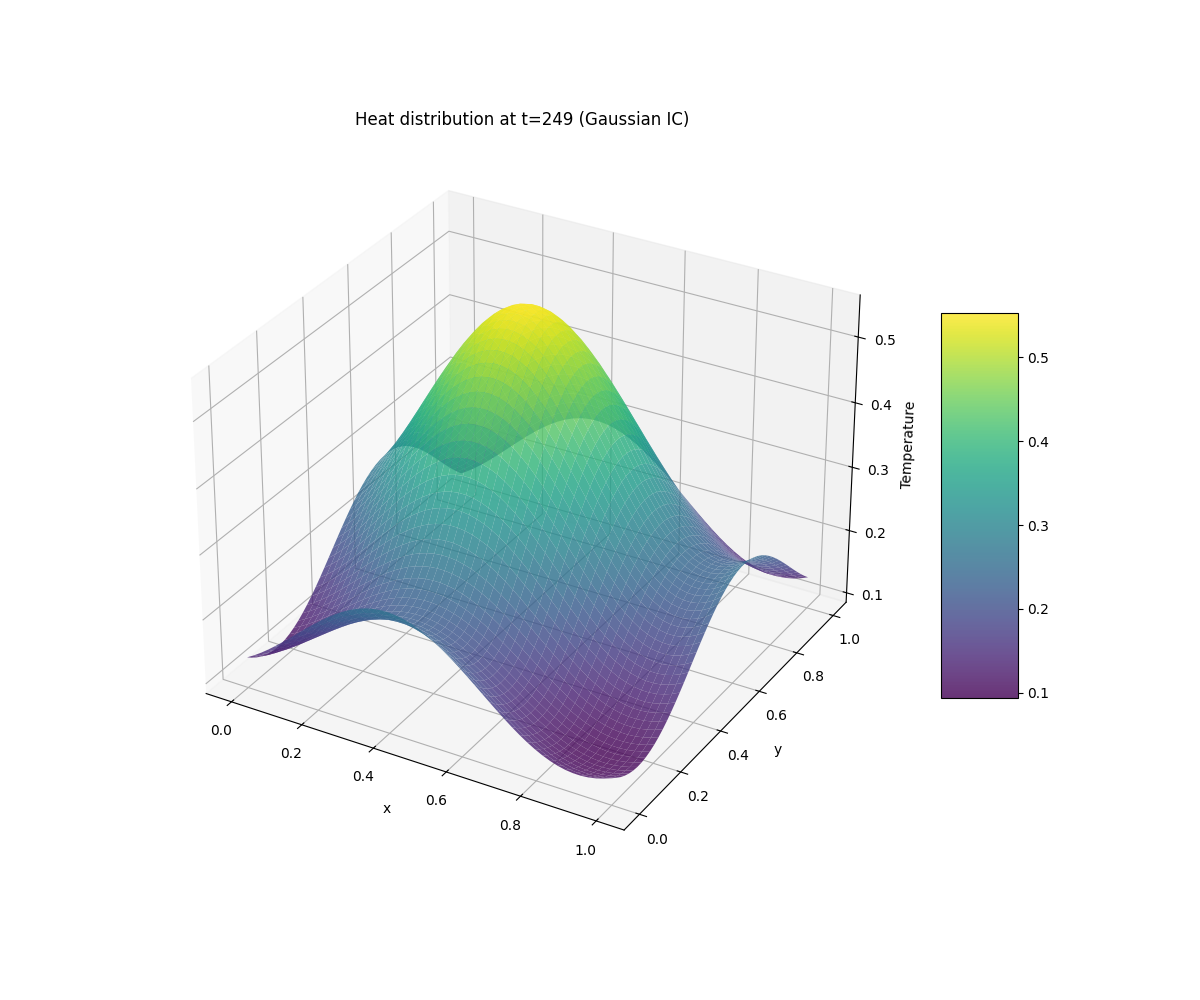
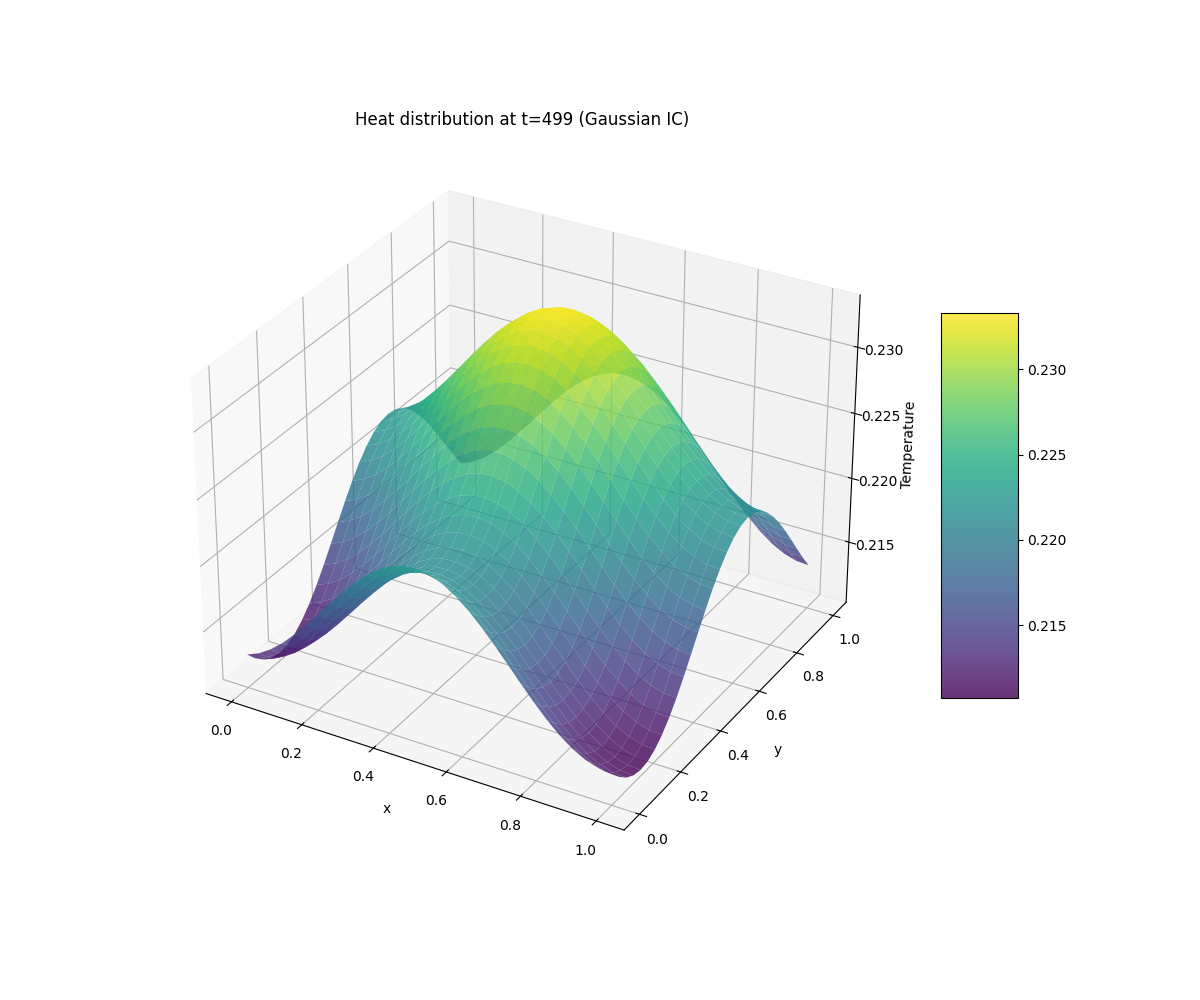
my fno is so great i love math

diff --git a/model/fno/fno.py b/model/fno/fno.py
@@ -6,7 +6,7 @@ import logging # janis sauce to debug
 import os
 import dotenv
 import json
-
+from sklearn.model_selection import train_test_split
 
 dotenv.load_dotenv()
 
@@ -23,7 +23,7 @@ import numpy as np
 
 class LinearLayer(tf.keras.layers.Layer):
     # [batch, p_1, p_1, n_coords] -> [batch, p_1, p_1, n_modes]
-    def __init__(self,n_modes:int,initializer:str='normal',device:str='GPU',p_1:int=50): # attention ici
+    def __init__(self,n_modes:int,initializer:str='normal',device:str='GPU',p_1:int=30): # attention ici
         super().__init__()
         self.n_modes = n_modes
         self.initializer = initializer
@@ -43,7 +43,7 @@ class LinearLayer(tf.keras.layers.Layer):
         
 
 class FourierLayer(tf.keras.layers.Layer): # just a simple fourier layer with pointwise multiplication with a linear thing in parallel
-    def __init__(self, n_modes: int, dim_coords: int, activation: str = "relu", kernel_initializer: str = "he_normal", device:str='GPU', linear_initializer:str='normal',p_1:int=20):
+    def __init__(self, n_modes: int, dim_coords: int, activation: str = "relu", kernel_initializer: str = "he_normal", device:str='GPU', linear_initializer:str='normal',p_1:int=30):
         super().__init__()
         self.n_modes = n_modes
         self.activation = tf.keras.activations.get(activation)
@@ -74,40 +74,41 @@ class FourierLayer(tf.keras.layers.Layer): # just a simple fourier layer with po
         
     def call(self, inputs: tf.Tensor) -> tf.Tensor:
         # inputs est de taille [batch, p_2,p_2,1] - représente les valeurs de la fonction
-        print("inputs shape",inputs.shape)
+        # print("inputs shape",inputs.shape)
         with tf.device(self.device):
             casted_data = tf.cast(inputs, tf.complex64) # to real, [batch, p_2,p_2,1]
             function_fft = tf.signal.fft2d(casted_data) # [batch, p_2,p_2, n_modes]
             
-            print("function_fft shape",function_fft.shape)
+            # print("function_fft shape",function_fft.shape)
             # keep in mind fourier_weights is a tensor of shape [n_modes,dim_coords]
 
             fourier_casted = tf.cast(self.fourier_weights,tf.complex64)
             
-            print("fourier_weights shape",fourier_casted.shape)
+            # print("fourier_weights shape",fourier_casted.shape)
             try:
                 function_fft = function_fft * fourier_casted  # with broadcasting
             except:
-                print("function_fft shape",function_fft.shape)
-                print("fourier_casted shape",fourier_casted.shape)
+                # print("function_fft shape",function_fft.shape)
+                # print("fourier_casted shape",fourier_casted.shape)
                 raise ValueError("Shape mismatch")
             
             x_spatial = tf.signal.ifft2d(function_fft)
             x_spatial = tf.cast(x_spatial, tf.float32)
             z = self.linear_layer(inputs)
-            print("x_spatial shape",x_spatial.shape)
-            print("z shape",z.shape)
+            # print("x_spatial shape",x_spatial.shape)
+            # print("z shape",z.shape)
             return self.activation(x_spatial + z)
 
     
 class FourierNetwork(tf.keras.Model): # we consider a network of fourier layers, ie concatenation of fourier layers
-    def __init__(self, n_layers: int, n_modes: int, dim_coords: int, activation: str = "relu", kernel_initializer: str = "he_normal"):
+    def __init__(self, n_layers: int, n_modes: int, dim_coords: int, activation: str = "relu", kernel_initializer: str = "he_normal",p_1:int=30):
         super().__init__()
         self.n_layers = n_layers
         self.n_modes = n_modes
         self.activation = activation
+        self.p_1 = p_1
         self.kernel_initializer = kernel_initializer
-        self.fourier_layers = [FourierLayer(n_modes, dim_coords, activation, kernel_initializer) for _ in range(n_layers)]
+        self.fourier_layers = [FourierLayer(n_modes, dim_coords, activation, kernel_initializer,p_1=self.p_1) for _ in range(n_layers)]
 
     def call(self, inputs: tf.Tensor) -> tf.Tensor:
         for layer in self.fourier_layers:
@@ -194,10 +195,10 @@ class FNO(tf.keras.Model):
         self.verbose = hyper_params["verbose"] if "verbose" in hyper_params else 1
         self.loss_function = hyper_params["loss_function"] if "loss_function" in hyper_params else tf.losses.MeanSquaredError()
         self.device = hyper_params["device"] if "device" in hyper_params else 'cpu'
-        self.folder_path = None  
+        self.folder_path = os.path.join(PROJECT_ROOT,hyper_params["folder_path"])
     
         self.output_shape = hyper_params["output_shape"] if "output_shape" in hyper_params else None
-        
+        self.alpha = hyper_params["alpha"] if "alpha" in hyper_params else 0.01
         
         self.build() # most important to build the model
         
@@ -266,9 +267,9 @@ class FNO(tf.keras.Model):
             xs = tf.convert_to_tensor(xs, dtype=tf.float32)  # [n_mu, nx, ny, 2]
             sol = tf.convert_to_tensor(sol[:, time_index, :], dtype=tf.float32)  # [N, nx*ny]
             
-            print("mu shape",mu.shape)
+            # print("mu shape",mu.shape)
             inputs = tf.squeeze(mu,axis=-1)
-            print("inputs shape",inputs.shape)
+            # print("inputs shape",inputs.shape)
             #inputs = tf.concat([mu, xs], axis=-1)  # [N, nx, ny, 3]
             return inputs, sol
             
@@ -304,16 +305,18 @@ class FNO(tf.keras.Model):
             mu = np.stack(mu_list, axis=0)  # [N, nx, ny, 1]
             sol = np.stack(sol_list, axis=0)  # [N, nx, ny, nt] 
             xs = np.stack(xs_list, axis=0)  # [N, nx, ny, 2]
-
+            # print("mu shape",mu.shape)
+            # print("sol shape",sol.shape)
+            # print("xs shape",xs.shape)
             time_index = self.hyper_params.get("index", -1)  # [scalar], this means that we take the last time step for the training in the worst case
                 
             mu = tf.convert_to_tensor(mu, dtype=tf.float32)  # [N, nx, ny, 1]
             xs = tf.convert_to_tensor(xs, dtype=tf.float32)  # [n_mu, nx, ny, 2]
-            sol = tf.convert_to_tensor(sol[:, time_index, :], dtype=tf.float32)  # [N, nx*ny]
+            sol = tf.convert_to_tensor(sol[..., time_index], dtype=tf.float32)  # [N, nx*ny]
             
-            print("mu shape",mu.shape)
+            # print("mu shape",mu.shape)
             inputs = tf.squeeze(mu,axis=-1)
-            print("inputs shape",inputs.shape)
+            # print("inputs shape",inputs.shape)
             return inputs, sol
             
         except Exception as e:
@@ -343,7 +346,7 @@ class FNO(tf.keras.Model):
     
     def build_fourier_network(self) -> None:  # main function to build the fourier network and allow CuFFT for fourier efficient training (with my rtx 4060)
         if self.fourier_network is None:
-            self.fourier_network = FourierNetwork(dim_coords=self.dim_coords,n_layers=self.fourier_params["n_layers"],n_modes=self.fourier_params["n_modes"],activation=self.fourier_params["activation"],kernel_initializer=self.fourier_params["kernel_initializer"])
+            self.fourier_network = FourierNetwork(dim_coords=self.dim_coords,n_layers=self.fourier_params["n_layers"],n_modes=self.fourier_params["n_modes"],activation=self.fourier_params["activation"],kernel_initializer=self.fourier_params["kernel_initializer"],p_1=self.p_1)
             
         self.fourier_network.build(input_shape=(None,self.p_2)) # it takes a tuple 
     
@@ -353,19 +356,62 @@ class FNO(tf.keras.Model):
     def fit(self,device:str='GPU',inputs=None,sol=None)->np.ndarray:
         
         inputs, sol = self.get_data(self.folder_path)
-        loss_history = []
+        loss_history_train = []
+        loss_history_test = []
+        
         with tf.device(device):
             dataset = tf.data.Dataset.from_tensor_slices((inputs,sol)) # batching the data with batch size
-        
-            dataset = dataset.batch(self.batch_size) # batching method from tensorflow
+            train_dataset,test_dataset = tf.keras.utils.split_dataset(dataset,left_size=0.8,right_size=0.2,seed=42)
+            train_dataset = train_dataset.batch(self.batch_size) # batching method from tensorflow
+            test_dataset = test_dataset.batch(self.batch_size) # batching method from tensorflow
        
             for epoch in tqdm(range(self.n_epochs),desc="Training progress"):
-                for batch in dataset:
+                for batch in train_dataset:
                     loss = self.train_step(batch)
-                    loss_history.append(loss)
+                    loss_history_train.append(loss)
+                for batch in test_dataset:
+                    loss = self.test_step(batch)
+                    loss_history_test.append(loss)
                 logger.info(f"Epoch {epoch} completed")
             
-        return loss_history
+        return loss_history_train,loss_history_test
+    
+    def test_step(self,batch:tuple[tf.Tensor,tf.Tensor])->tf.Tensor:
+        inputs,sol = batch
+        y_pred = self.predict(inputs)
+        loss = self.loss_function(y_pred,sol)
+        return loss
+    
+    ### managing model training methods ###
+    def fit_partial(self,device:str='GPU',inputs=None,sol=None)->np.ndarray:
+        
+        inputs, sol = self.get_data_partial(self.folder_path,alpha=self.alpha)
+        loss_history_train = []
+        loss_history_test = []
+        
+        with tf.device(device):
+            dataset = tf.data.Dataset.from_tensor_slices((inputs,sol)) # batching the data with batch size
+            train_dataset,test_dataset = tf.keras.utils.split_dataset(dataset,left_size=0.8,right_size=0.2,seed=42)
+            train_dataset = train_dataset.batch(self.batch_size) # batching method from tensorflow
+            test_dataset = test_dataset.batch(self.batch_size) # batching method from tensorflow
+       
+            for epoch in tqdm(range(self.n_epochs),desc="Training progress"):
+                mean_loss = 0
+                for batch in train_dataset:
+                    loss = self.train_step(batch)
+                    mean_loss += loss
+                loss_history_train.append(mean_loss/len(train_dataset))
+                    
+                mean_loss = 0
+                for batch in test_dataset:
+                    batchloss = self.test_step(batch)
+                    mean_loss += batchloss
+                loss_history_test.append(mean_loss/len(test_dataset))
+                logger.info(f"Epoch {epoch} completed")
+        logger.info(f"Train loss: {loss_history_train[-1]}")
+        logger.info(f"Test loss: {loss_history_test[-1]}")
+        return loss_history_train,loss_history_test
+        
         
     def train_step(self, batch: tuple[tf.Tensor, tf.Tensor, tf.Tensor]) -> tf.Tensor:
         """

diff --git a/data/generation/generate_big_heat_fno.py b/data/generation/generate_big_heat_fno.py
@@ -32,9 +32,9 @@ def solve_heat_square(boundary_conditions:np.ndarray, initial_conditions:np.ndar
     
     return solution  # [nx, ny, nt]
 
-def create_big_heat_data(N:int=1000, nx:int=30, ny:int=30, nt:int=250, alpha:float=0.1)->None:
+def create_big_heat_data(N:int=1000, nx:int=30, ny:int=30, nt:int=500, alpha:float=0.05)->None:
     
-    # Create directories if they don't exist
+    
     base_dir = "data/test_data/big_dataset_fno/heat2d"
     for subdir in ['mu', 'sol', 'xs']:
         os.makedirs(os.path.join(base_dir, subdir), exist_ok=True)
